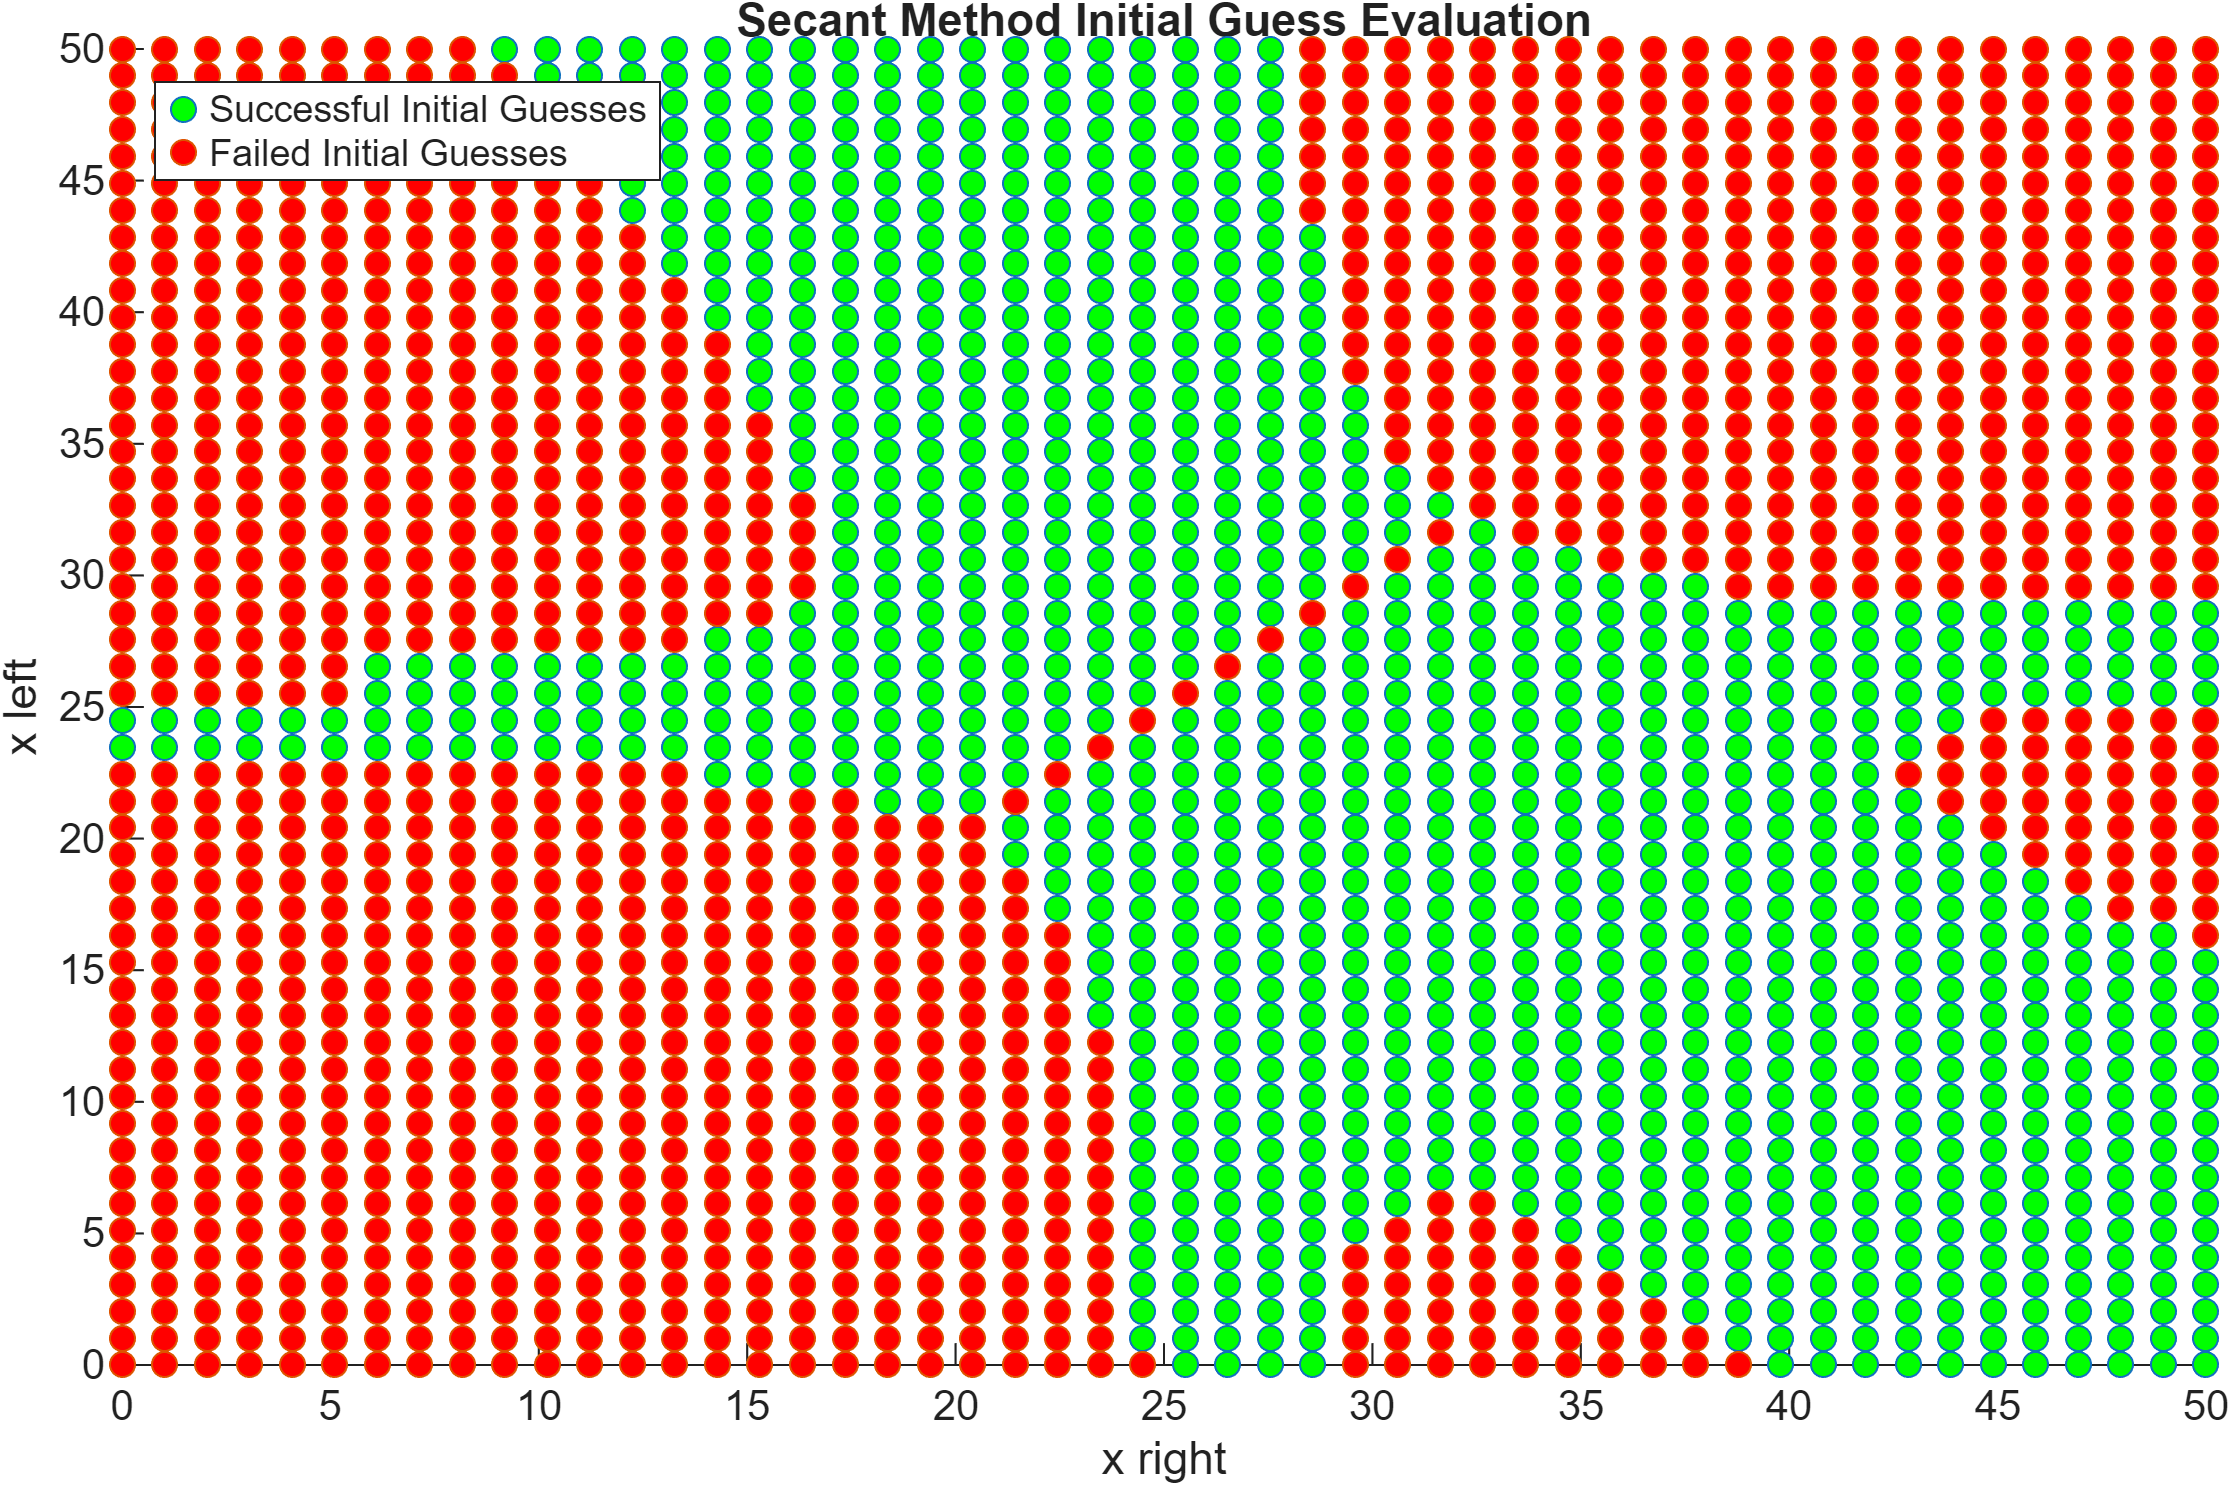
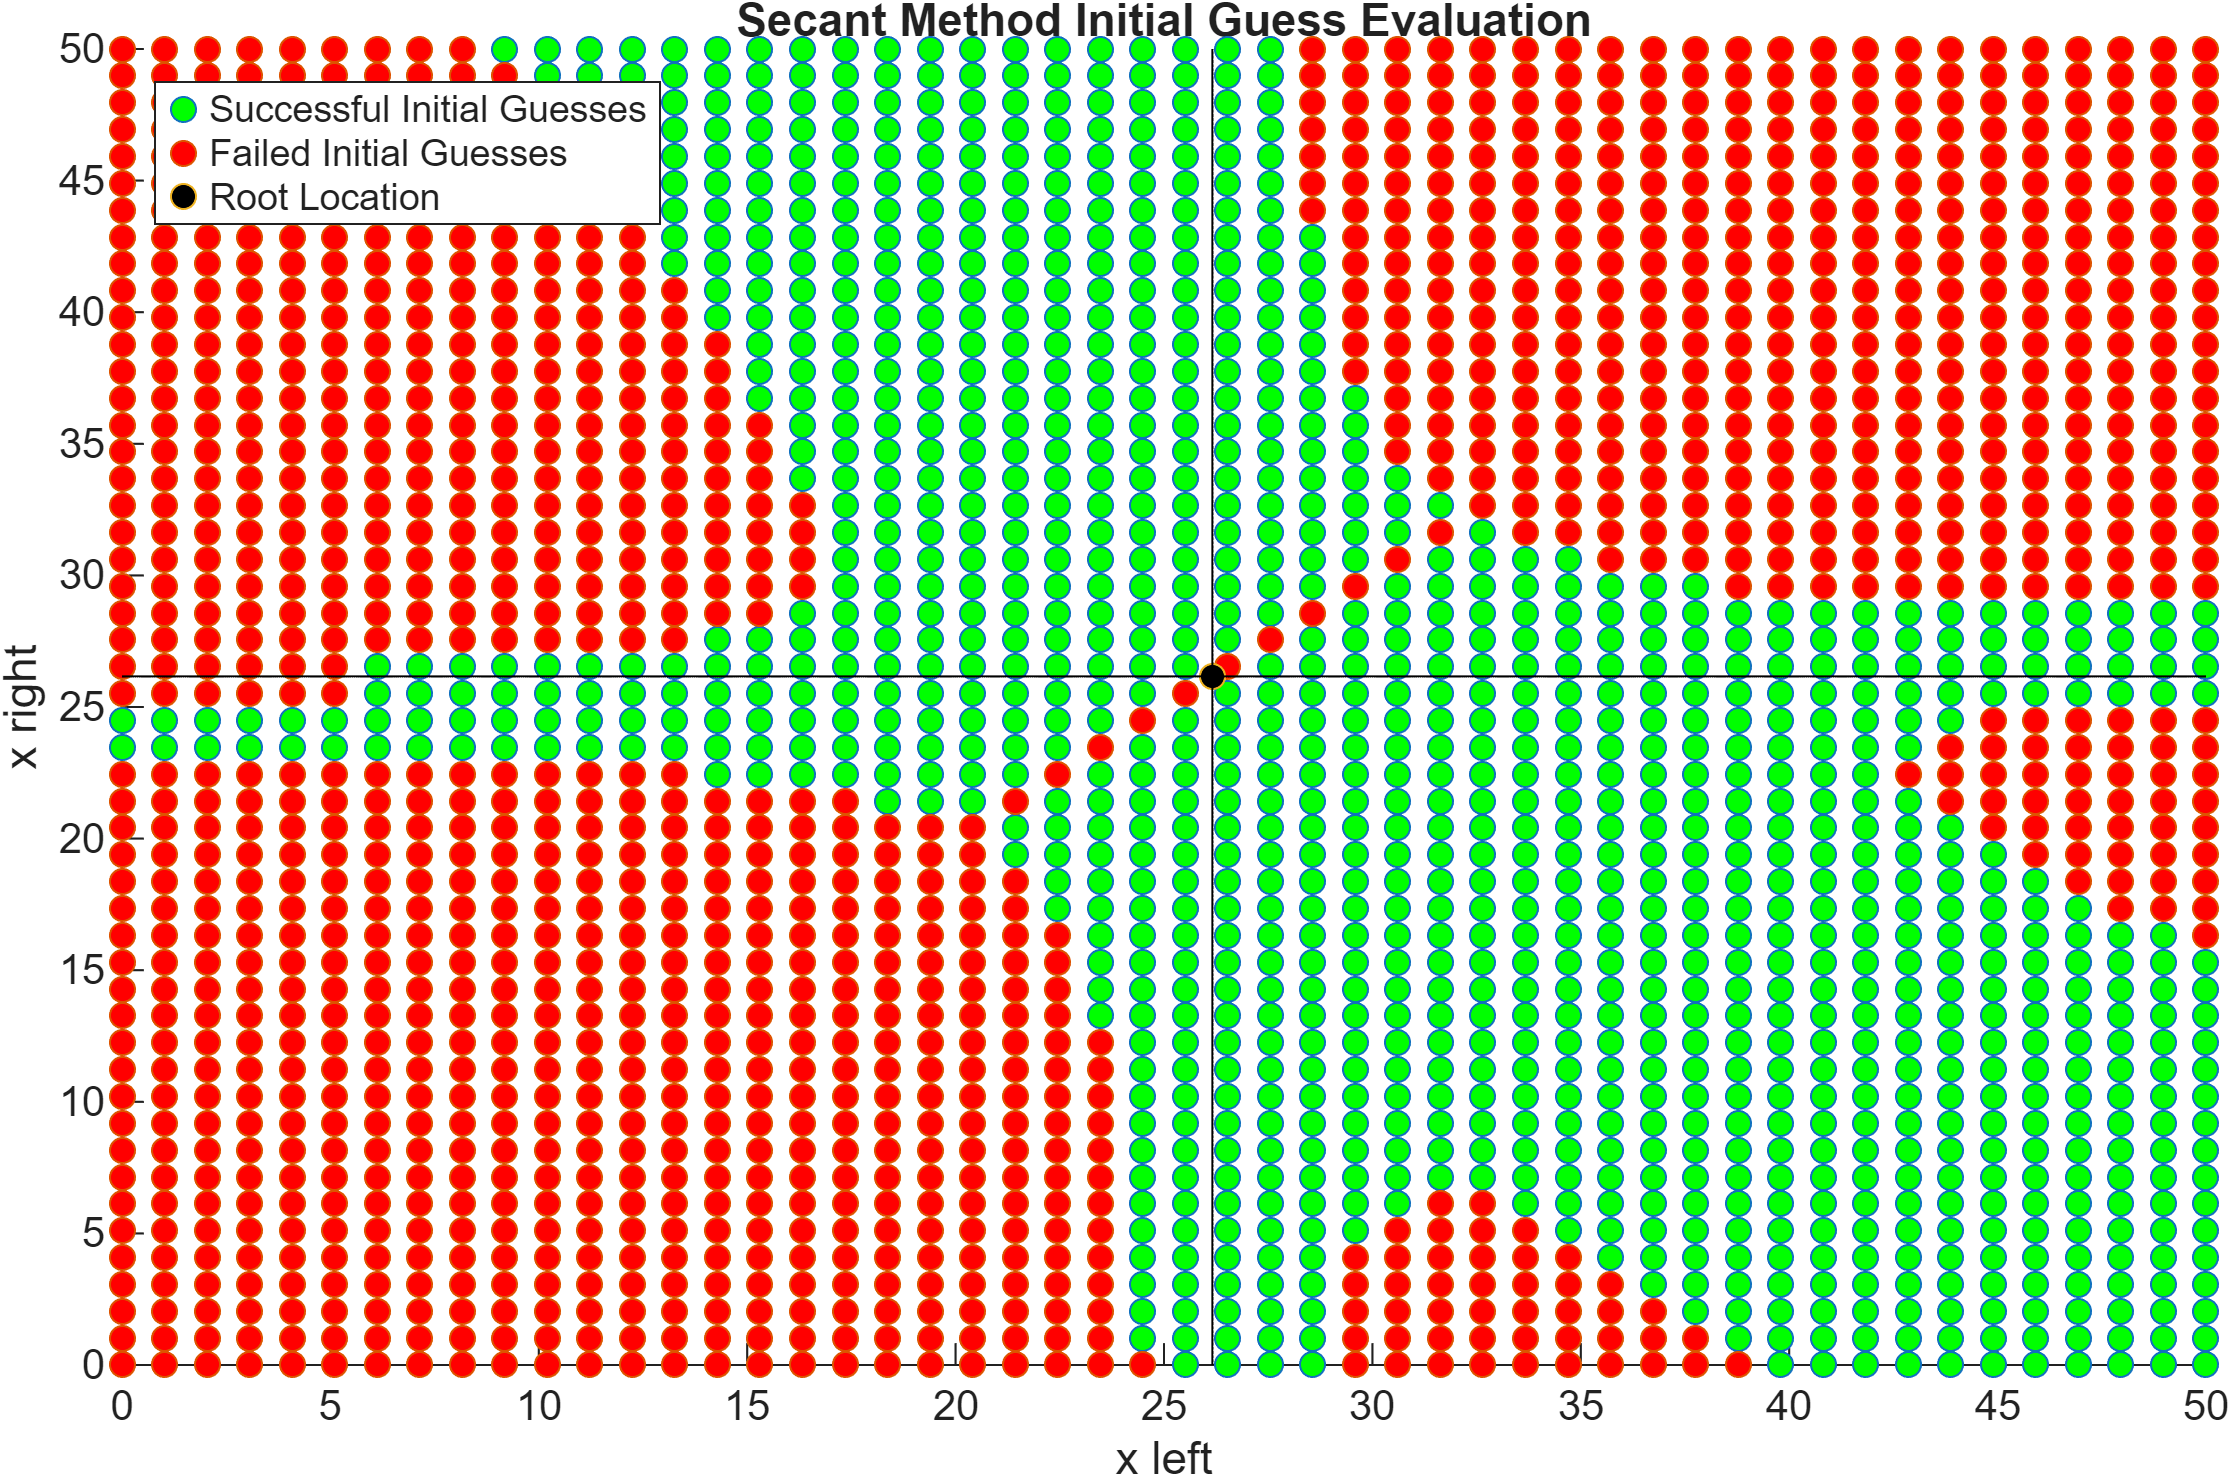
updated plots with all the things

Changed region(s): [[0.0, 0.0312, 1.0, 1.0]]

diff --git a/sigmoid_testing.m b/sigmoid_testing.m
@@ -1,4 +1,5 @@
 x_guess = linspace(0, 50, 1000);
+x_zero = zeros(1000);
 
 dxtol = 1e-12;
 ftol = 1e-12;
@@ -33,10 +34,12 @@ plot(plot_x, y)
 hold on
 plot(x_newt_good, y_newt_good, "ro", 'Color','g')
 plot(x_newt_bad, y_newt_bad, "ro", 'Color','r')
+plot(target_root, 0, "o", "MarkerFaceColor","k")
+plot(plot_x, x_zero, 'Color', 'k');
 title("Newton's Method Initial Guess Evaluation")
 ylabel("F(x)")
 xlabel("x")
-legend("Function", "Successful Initial Guesses", "Failed Initial Guesses", Location='northwest')
+legend("Function", "Successful Initial Guesses", "Failed Initial Guesses", "Root Location", Location='northwest')
 hold off
 exportgraphics(gca, 'plots/newton_sigmoid.png', 'Resolution', 300);
 
@@ -69,10 +72,12 @@ plot(plot_x, y)
 hold on
 plot(x_fzero_good, y_fzero_good, "ro", 'Color','g')
 plot(x_fzero_bad, y_fzero_bad, "ro", 'Color','r')
+plot(target_root, 0, "o", "MarkerFaceColor","k")
+plot(plot_x, x_zero, 'Color', 'k');
 title("Fzero Method Initial Guess Evaluation")
 ylabel("F(x)")
 xlabel("x")
-legend("Function", "Successful Initial Guesses", "Failed Initial Guesses", Location='northwest')
+legend("Function", "Successful Initial Guesses", "Root Location", Location='northwest')
 hold off
 exportgraphics(gca, 'plots/fzero_sigmoid.png', 'Resolution', 300);
 
@@ -88,6 +93,9 @@ y_bi_good = [];
 x_bi_bad = [];
 y_bi_bad = [];
 target_root = fzero(@sigmoid, 30)
+
+lines = ones(1000) * target_root;
+lines_2 = linspace(0, 50, 1000);
 
 for i=1:length(x_list)^2
     [x, exit_flag] = bisection(@sigmoid,x_left(i), x_right(i), dxtol,ftol,max_iter);
@@ -106,9 +114,11 @@ hold on
 plot(x_bi_good, y_bi_good, "o", 'MarkerFaceColor','g')
 plot(x_bi_bad, y_bi_bad, "o", 'MarkerFaceColor','r')
 plot(target_root, target_root, "o", "MarkerFaceColor","k")
+plot(lines, lines_2, 'Color', 'k')
+plot(lines_2, lines, 'Color', 'k')
 title("Bisection Method Initial Guess Evaluation")
-ylabel("x left")
-xlabel("x right")
+ylabel("x right")
+xlabel("x left")
 legend("Successful Initial Guesses", "Failed Initial Guesses", "Root Location", Location='northwest')
 hold off
 exportgraphics(gca, 'plots/bisection_sigmoid.png', 'Resolution', 300);
@@ -139,10 +149,13 @@ figure();
 hold on
 plot(x_sec_good, y_sec_good, "o", 'MarkerFaceColor','g')
 plot(x_sec_bad, y_sec_bad, "o", 'MarkerFaceColor','r')
+plot(target_root, target_root, "o", "MarkerFaceColor","k")
 title("Secant Method Initial Guess Evaluation")
-ylabel("x left")
-xlabel("x right")
-legend("Successful Initial Guesses", "Failed Initial Guesses", Location='northwest')
+plot(lines, lines_2, 'Color', 'k')
+plot(lines_2, lines, 'Color', 'k')
+ylabel("x right")
+xlabel("x left")
+legend("Successful Initial Guesses", "Failed Initial Guesses", "Root Location", Location='northwest')
 hold off
 exportgraphics(gca, 'plots/secant_sigmoid.png', 'Resolution', 300);
 
